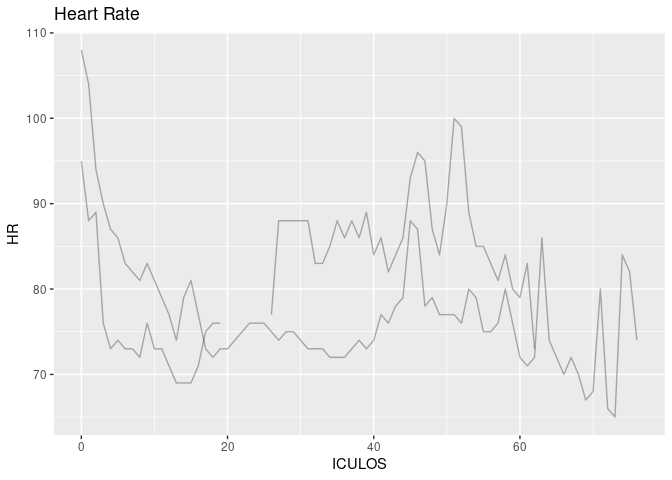
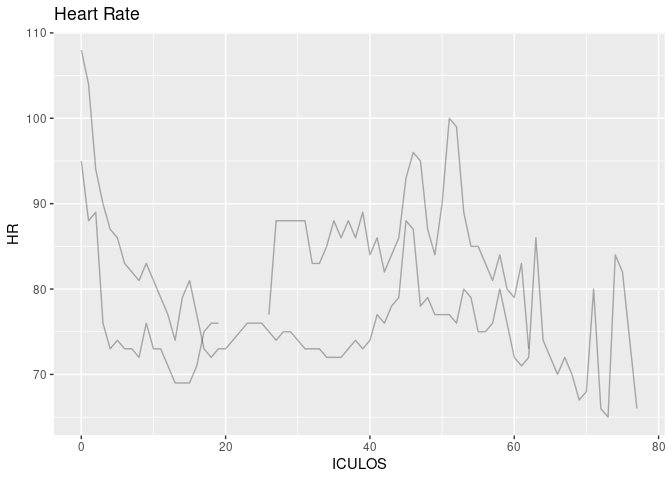
Updated report

diff --git a/A7.md b/A7.md
@@ -21,7 +21,7 @@ most_recent_data <- new_data %>%
 
 Date and time of the report
 
-    [1] "2023-04-09 22:11:42 UTC"
+    [1] "2023-04-09 23:12:35 UTC"
 
 Patient who have sepsis right now
 
@@ -34,7 +34,7 @@ most_recent_data %>% filter(SepsisLabel == 1) %>% select(PatientID, HR, Temp, Re
       PatientID    HR  Temp  Resp
       <chr>     <dbl> <dbl> <dbl>
     1 000346       73  NA      17
-    2 004694       74  36.6    25
+    2 004694       66  36.6    25
 
 Plots for patients who have sepsis
 
@@ -85,53 +85,53 @@ Table <- new_data %>%
     # A tibble: 50 × 4
        PatientID diff_hr diff_temp diff_resp
        <chr>       <dbl>     <dbl>     <dbl>
-     1 000073         -4   NA              2
-     2 000135         10    0.100          0
-     3 000287         NA   NA             NA
-     4 000346        -10   NA              1
-     5 000617         NA   NA             NA
-     6 001145          1   -0.200         -2
-     7 001467        -13   NA              3
-     8 001500         -5   NA              0
-     9 001563         NA   NA             NA
-    10 001748          1   NA             -9
-    11 001851         -9   NA              1
-    12 001904         NA   NA             NA
-    13 002175        -21   NA             -1
-    14 002240        -23   NA              0
-    15 002638          1   NA              7
-    16 003133          7   NA             -1
-    17 003195         -8   NA            -17
-    18 003242          0   NA              2
-    19 003471          1   NA             NA
-    20 003492          3   NA              5
-    21 003524          7   NA             12
-    22 003550          2   NA              9
-    23 003642          3   NA              0
-    24 003683         -3   NA             -5
-    25 003823          1   NA              1
-    26 003872        -12   NA              3
-    27 003876         -2   NA             -5
-    28 003883         -3   NA              0
-    29 004089         NA   NA             NA
-    30 004246         NA   NA             NA
-    31 004331        -15   NA             -2
-    32 004694         -8   -0.0500         0
-    33 004753          3    0.100          0
-    34 004853        -24   NA              0
-    35 005001         11   NA             -2
-    36 005894         16   NA              2
-    37 006520          1   NA             -1
-    38 006901          4   NA              5
-    39 007045          4   NA              0
-    40 007324         -3   NA             -3
-    41 007612        -13   NA             -7
-    42 007959         NA   NA             NA
-    43 008791          1   NA             -3
-    44 008820         -7   NA             -2
-    45 008937         26   NA             -5
-    46 009562         NA   NA             NA
-    47 009606          9   NA             21
-    48 009732          1   NA             -1
-    49 009748          3   NA             -2
-    50 009818          2   NA             -6
+     1 000073         -4    NA             2
+     2 000135         10     0.100         0
+     3 000287         NA    NA            NA
+     4 000346        -10    NA             1
+     5 000617         NA    NA            NA
+     6 001145          1    -0.200        -2
+     7 001467        -13    NA             3
+     8 001500         -5    NA             0
+     9 001563         NA    NA            NA
+    10 001748          1    NA            -9
+    11 001851         -9    NA             1
+    12 001904         NA    NA            NA
+    13 002175        -21    NA            -1
+    14 002240        -23    NA             0
+    15 002638          1    NA             7
+    16 003133          7    NA            -1
+    17 003195         -8    NA           -17
+    18 003242          0    NA             2
+    19 003471          1    NA            NA
+    20 003492          3    NA             5
+    21 003524          7    NA            12
+    22 003550          2    NA             9
+    23 003642          3    NA             0
+    24 003683         -3    NA            -5
+    25 003823          1    NA             1
+    26 003872        -12    NA             3
+    27 003876         -2    NA            -5
+    28 003883         -3    NA             0
+    29 004089         NA    NA            NA
+    30 004246         NA    NA            NA
+    31 004331        -15    NA            -2
+    32 004694         -8     0             0
+    33 004753          3     0.100         0
+    34 004853        -24    NA             0
+    35 005001         11    NA            -2
+    36 005894         16    NA             2
+    37 006520          1    NA            -1
+    38 006901          4    NA             5
+    39 007045          4    NA             0
+    40 007324         -3    NA            -3
+    41 007612        -13    NA            -7
+    42 007959         NA    NA            NA
+    43 008791          1    NA            -3
+    44 008820         -7    NA            -2
+    45 008937         26    NA            -5
+    46 009562         NA    NA            NA
+    47 009606          9    NA            21
+    48 009732          1    NA            -1
+    49 009748          3    NA            -2
+    50 009818          2    NA            -6
